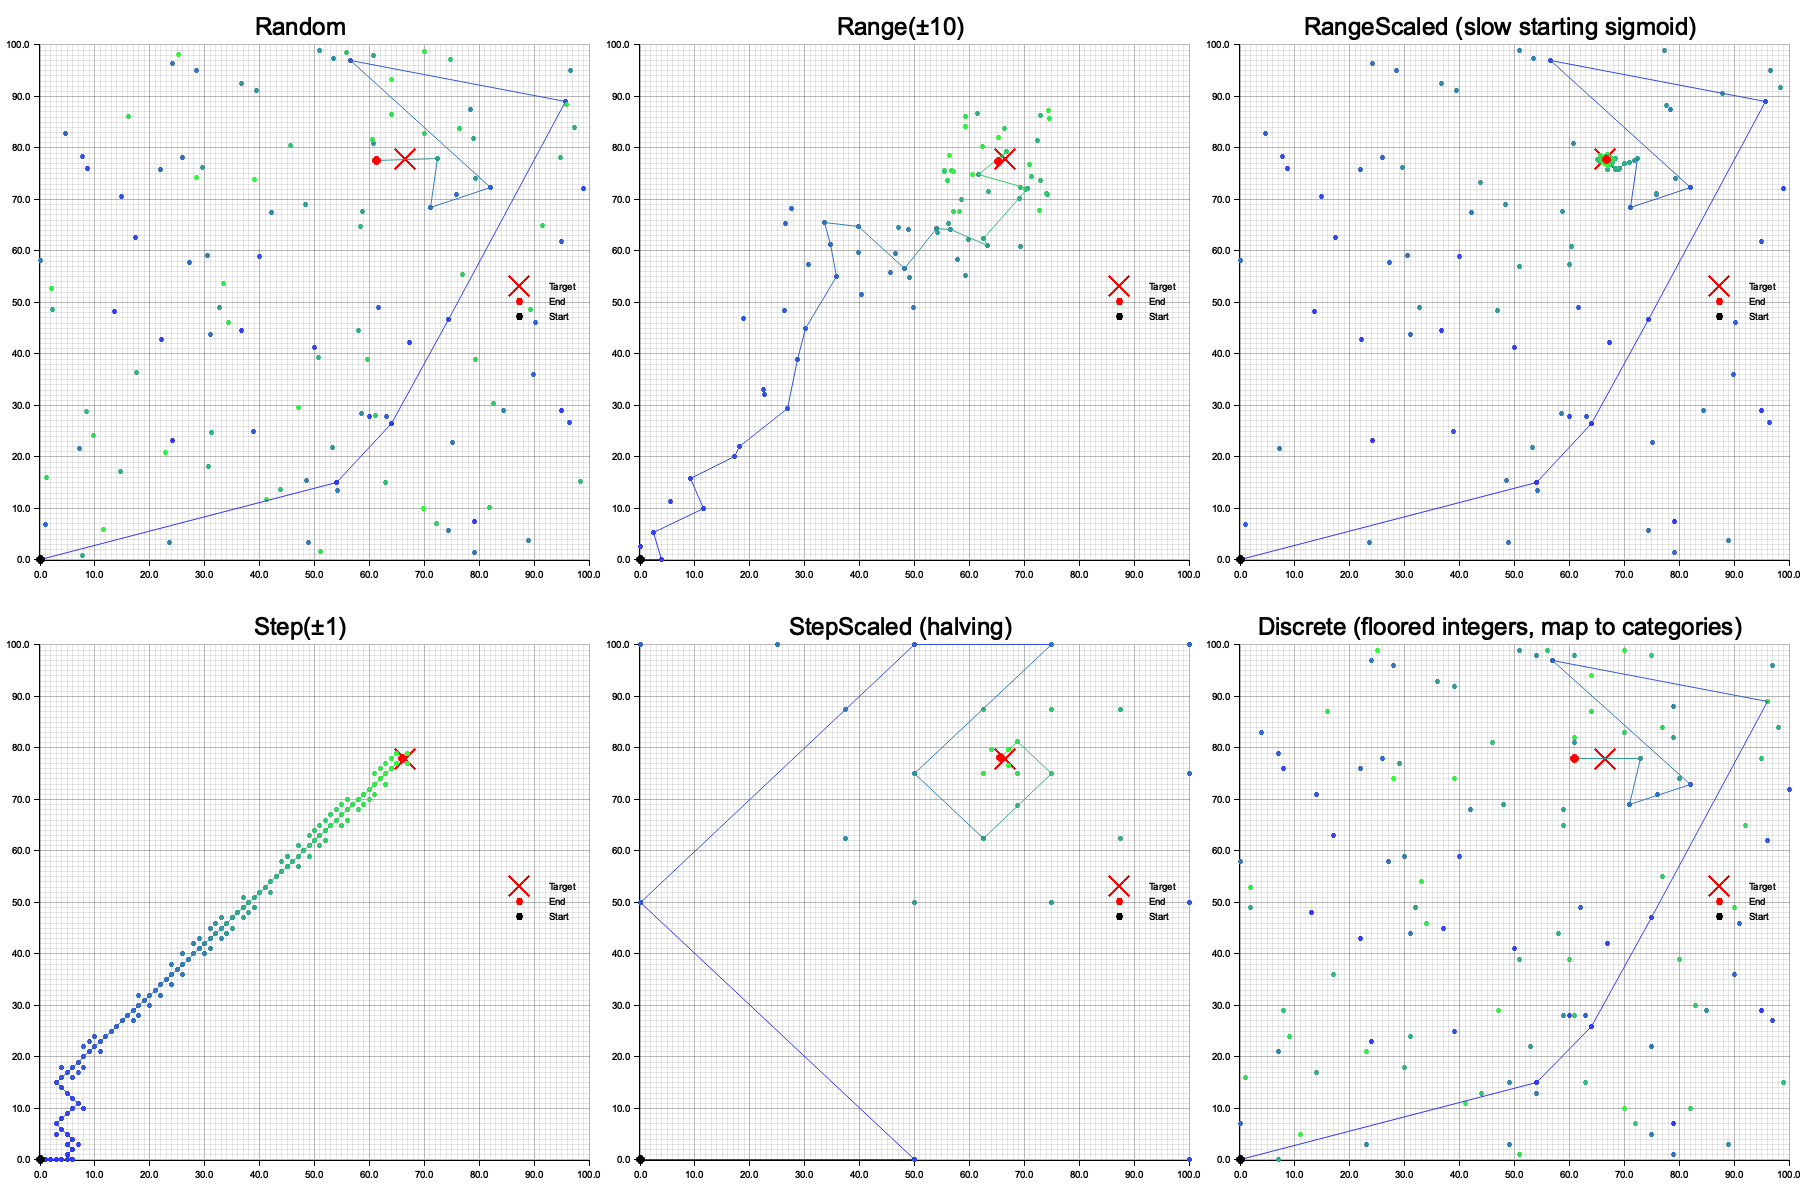
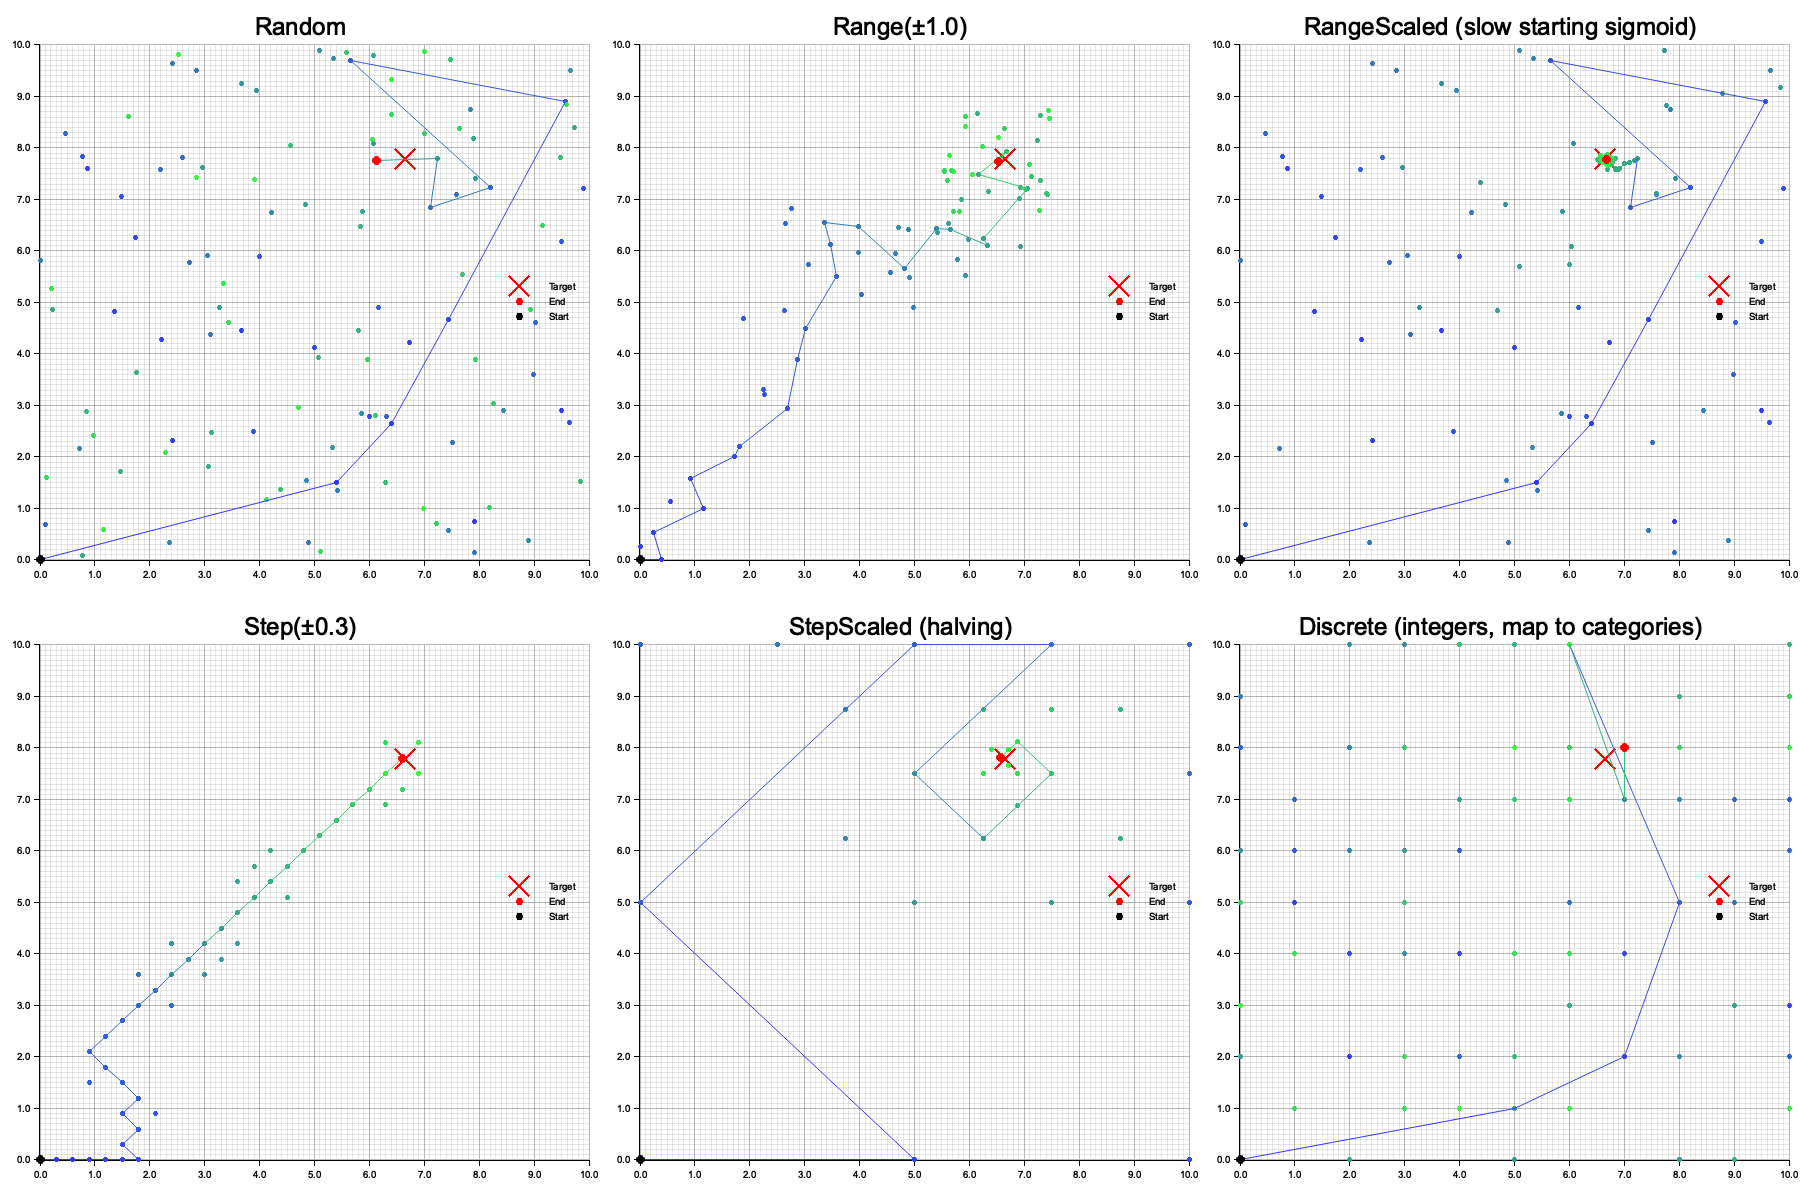
reduce grid by factor 10, to allow for Discrete to be more visible in effect in examples/visualize_evolve_mutation_types and examples/visualize_permutate_mutation_types

diff --git a/examples/visualize_evolve_mutation_types.rs b/examples/visualize_evolve_mutation_types.rs
@@ -3,7 +3,7 @@ use plotters::prelude::*;
 use std::sync::{Arc, Mutex};
 
 const SEED_POINT: [f32; 2] = [0.0, 0.0];
-const TARGET_POINT: [f32; 2] = [66.666, 77.777];
+const TARGET_POINT: [f32; 2] = [6.6666, 7.7777];
 
 /// Fitness function targeting the point in 2D space
 #[derive(Clone, Debug)]
@@ -121,13 +121,13 @@ fn run_evolution(
     mutation_type_name: String,
     max_stale_generations: usize,
 ) -> ExplorationReporter {
-    let fitness = TargetPointFitness::new(TARGET_POINT, 0.001);
+    let fitness = TargetPointFitness::new(TARGET_POINT, 0.0001);
     let reporter = ExplorationReporter::new();
 
     // Create genotype with 2 genes for 2D visualization
     let genotype = RangeGenotype::<f32>::builder()
         .with_genes_size(2)
-        .with_allele_range(0.0..=100.0)
+        .with_allele_range(0.0..=10.0)
         .with_mutation_type(mutation_type)
         .with_seed_genes_list(vec![SEED_POINT.to_vec()]) // Start from origin
         .build()
@@ -182,7 +182,7 @@ fn generate_plot(
             .margin(10)
             .x_label_area_size(30)
             .y_label_area_size(30)
-            .build_cartesian_2d(0f32..100f32, 0f32..100f32)?;
+            .build_cartesian_2d(0f32..10f32, 0f32..10f32)?;
 
         chart.configure_mesh().draw()?;
 
@@ -271,7 +271,7 @@ fn main() {
     println!("=== Visualizing Evolve Mutation Types in 2D Search Space ===\n");
     println!("Starting point: {:?}", SEED_POINT);
     println!("Target point: {:?}", TARGET_POINT);
-    println!("Search space: [0.0, 100.0] x [0.0, 100.0]\n");
+    println!("Search space: [0.0, 10.0] x [0.0, 10.0]\n");
 
     let mut reporters = Vec::new();
 
@@ -281,13 +281,13 @@ fn main() {
     reporters.push(("Random".to_string(), reporter));
 
     // Range mutation - fixed bandwidth
-    println!("Running Range(10.0) mutation...");
-    let reporter = run_evolution(MutationType::Range(10.0), "Range(10.0)".to_string(), 20);
-    reporters.push(("Range(±10)".to_string(), reporter));
+    println!("Running Range(1.0) mutation...");
+    let reporter = run_evolution(MutationType::Range(1.0), "Range(1.0)".to_string(), 20);
+    reporters.push(("Range(±1.0)".to_string(), reporter));
 
     // RangeScaled mutation - dropping by 1/5th each scale
     println!("Running RangeScaled mutation...");
-    let ranges = vec![100.0, 100.0, 100.0, 90.0, 30.0, 1.0];
+    let ranges = vec![10.0, 10.0, 10.0, 9.0, 3.0, 0.1];
     let reporter = run_evolution(
         MutationType::RangeScaled(ranges.clone()),
         format!("RangeScaled({:?})", ranges),
@@ -296,13 +296,13 @@ fn main() {
     reporters.push(("RangeScaled (slow starting sigmoid)".to_string(), reporter));
 
     // Step mutation - fixed step
-    println!("Running Step(1.0) mutation...");
-    let reporter = run_evolution(MutationType::Step(1.0), "Step(1.0)".to_string(), 20);
-    reporters.push(("Step(±1)".to_string(), reporter));
+    println!("Running Step(0.3) mutation...");
+    let reporter = run_evolution(MutationType::Step(0.3), "Step(0.3)".to_string(), 20);
+    reporters.push(("Step(±0.3)".to_string(), reporter));
 
     // StepScaled mutation - halving each scale
     println!("Running StepScaled mutation...");
-    let steps = vec![50.0, 25.0, 12.5, 6.25, 3.125, 1.5625];
+    let steps = vec![5.00, 2.50, 1.25, 0.625, 0.3125, 0.15625];
     let reporter = run_evolution(
         MutationType::StepScaled(steps.clone()),
         format!("StepScaled({:?})", steps),
@@ -314,7 +314,7 @@ fn main() {
     println!("Running Discrete mutation...");
     let reporter = run_evolution(MutationType::Discrete, "Discrete".to_string(), 50);
     reporters.push((
-        "Discrete (floored integers, map to categories)".to_string(),
+        "Discrete (integers, map to categories)".to_string(),
         reporter,
     ));
 

diff --git a/examples/visualize_permutate_mutation_types.rs b/examples/visualize_permutate_mutation_types.rs
@@ -2,7 +2,7 @@ use genetic_algorithm::strategy::permutate::prelude::*;
 use plotters::prelude::*;
 use std::sync::{Arc, Mutex};
 
-const TARGET_POINT: [f32; 2] = [66.666, 77.777];
+const TARGET_POINT: [f32; 2] = [6.6666, 7.7777];
 
 /// Fitness function targeting the point in 2D space
 #[derive(Clone, Debug)]
@@ -88,14 +88,14 @@ fn run_permutation(
     mutation_type: MutationType<f32>,
     mutation_type_name: String,
 ) -> PermutationReporter {
-    let fitness = TargetPointFitness::new(TARGET_POINT, 0.001);
+    let fitness = TargetPointFitness::new(TARGET_POINT, 0.0001);
     let reporter = PermutationReporter::new();
 
     // Create genotype with 2 genes for 2D visualization
     // Using integer type for discrete steps
     let genotype = RangeGenotype::<f32>::builder()
         .with_genes_size(2)
-        .with_allele_range(0.0..=100.0)
+        .with_allele_range(0.0..=10.0)
         .with_mutation_type(mutation_type)
         // No seed - let permutation explore the entire space
         .build()
@@ -143,7 +143,7 @@ fn generate_plot(
             .margin(10)
             .x_label_area_size(30)
             .y_label_area_size(30)
-            .build_cartesian_2d(0f32..100f32, 0f32..100f32)?;
+            .build_cartesian_2d(0f32..10f32, 0f32..10f32)?;
 
         chart.configure_mesh().draw()?;
 
@@ -220,32 +220,34 @@ fn generate_plot(
 fn main() {
     println!("=== Visualizing Permutation Mutation Types in 2D Search Space ===\n");
     println!("Target point: {:?}", TARGET_POINT);
-    println!("Search space: [0, 100] x [0, 100] (integer grid)\n");
-    println!("Note: Permutation systematically explores the entire space as defined by the mutation type.\n");
+    println!("Search space: [0.0, 10.0] x [0.0, 10.0]\n");
 
     let mut reporters = Vec::new();
 
     // Step mutation - fixed step
     // With step=5, this will explore a 20x20 grid (every 5th point)
-    println!("Running Step(5) mutation with permutation...");
-    let reporter = run_permutation(MutationType::Step(5.0), "Step(5.0)".to_string());
-    reporters.push(("Step(±5) Full Grid Exploration".to_string(), reporter));
+    println!("Running Step(0.3) mutation...");
+    let reporter = run_permutation(MutationType::Step(0.3), "Step(0.3)".to_string());
+    reporters.push(("Step(±0.3, full exploration)".to_string(), reporter));
 
     // StepScaled mutation - halving each scale
     // This will first explore with large steps, then refine around the best
-    println!("Running StepScaled mutation with permutation...");
-    let steps = vec![50.0, 25.0, 12.5, 6.25, 3.125, 1.5625];
+    println!("Running StepScaled mutation...");
+    let steps = vec![5.00, 2.50, 1.25, 0.625, 0.3125, 0.15625];
     let reporter = run_permutation(
         MutationType::StepScaled(steps.clone()),
         format!("StepScaled({:?})", steps),
     );
-    reporters.push(("StepScaled Nested Grids".to_string(), reporter));
+    reporters.push(("StepScaled (nested halving grids)".to_string(), reporter));
 
     // Discrete mutation - like ListGenotype for categories
     // This explores a sampled subset of the space
-    println!("Running Discrete mutation with permutation (limited range for feasibility)...");
+    println!("Running Discrete mutation...");
     let reporter = run_permutation(MutationType::Discrete, "Discrete".to_string());
-    reporters.push(("Discrete Full Exploration".to_string(), reporter));
+    reporters.push((
+        "Discrete (full exploration of integers)".to_string(),
+        reporter,
+    ));
 
     // Generate visualization
     println!("\nGenerating visualization...");
@@ -259,4 +261,3 @@ fn main() {
     println!("- Discrete: Jumps to any discrete value in the range");
     println!("Color gradient: Blue (early) → Green (late) generations");
 }
-

diff --git a/src/lib.rs b/src/lib.rs
@@ -143,9 +143,12 @@
 //!
 //! ### Permutate Strategy (and HillClimb)
 //!
-//! For exhaustive search in smaller spaces, the Permutate strategy can
-//! systematically explore continues genotypes (RangeGenotype and
-//! MultiRangeGenotype) using Step, StepScaled, and Discrete mutation types:
+//! For exhaustive search in smaller spaces, all genotypes have their own
+//! permutation implementation, which systematically explore all value combinations.
+//!
+//! But for numeric/continues genotypes (RangeGenotype and MultiRangeGenotype)
+//! permutation is only possible using Step, StepScaled, and Discrete mutation
+//! types (as it needs additional restrictions be become countable):
 //!
 //! - **Step**: Systematically explores grid points at fixed intervals
 //! - **StepScaled**: Hierarchical search that refines around promising regions

diff --git a/README.md b/README.md
@@ -140,7 +140,7 @@ within a single numeric type `T`.
 
 The library supports various mutation strategies that affect how the genetic
 algorithm explores the search space. Random leads to the best results overall.
-Random is the default and is supported by all Genotypes. 
+Random is the default and is supported by all Genotypes.
 
 But for numeric genotypes (RangeGenotype and MultiRangeGenotype) there are
 several alternatives. These might converge faster, but are all more sensitive to
@@ -163,9 +163,12 @@ Run the example with `cargo run --example visualize_evolve_mutation_types --rele
 
 ### Permutate Strategy
 
-For exhaustive search in smaller spaces, the Permutate strategy can
-systematically explore continues genotypes (RangeGenotype and
-MultiRangeGenotype) using Step, StepScaled, and Discrete mutation types:
+For exhaustive search in smaller spaces, all genotypes have their own
+permutation implementation, which systematically explore all value combinations.
+
+But for numeric/continues genotypes (RangeGenotype and MultiRangeGenotype)
+permutation is only possible using Step, StepScaled, and Discrete mutation
+types (as it needs additional restrictions be become countable):
 
 ![Permutate Mutation Types Patterns](examples/visualize_permutate_mutation_types.png)
 
